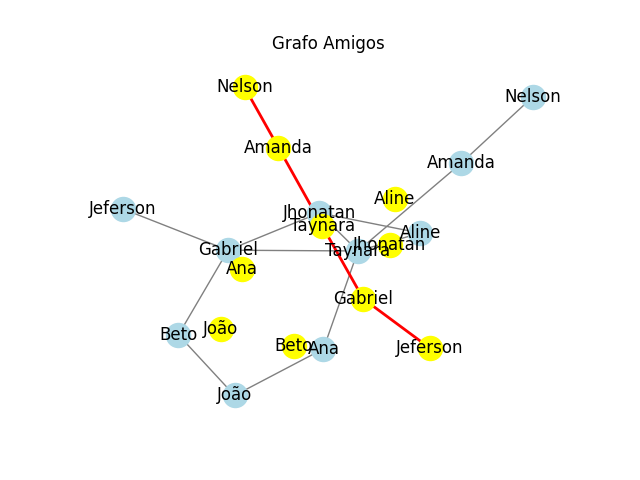
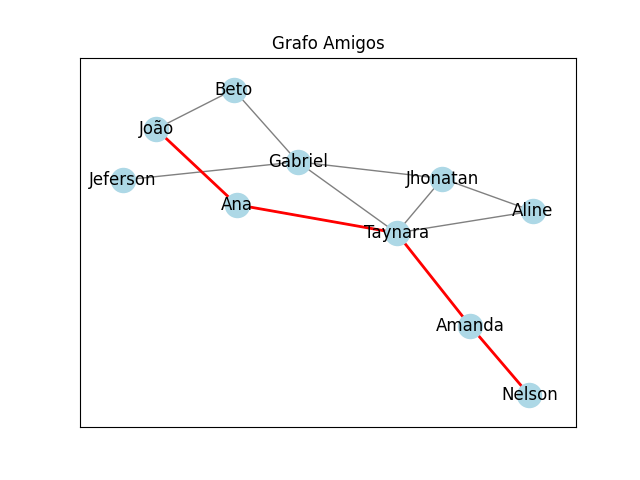
feat: add new image

diff --git a/script.py b/script.py
@@ -81,7 +81,7 @@ adicionar_amizade(grafo_amigos, "Taynara", "Amanda")
 plt.title("Grafo Amigos")
 
 G = nx.Graph(grafo_amigos)
-rota = nx.shortest_path(G, "Nelson", "Jeferson")
+rota = nx.shortest_path(G, "João", "Nelson")
 
 aresta_rota = []
 
@@ -89,20 +89,17 @@ for i in range(len(rota) - 1):
     aresta = (rota[i], rota[i + 1])
     aresta_rota.append(aresta)
 
-# --- Bloco de Desenho Corrigido ---
-
 # Calcula a posição dos nós uma única vez para que tudo fique alinhado
 pos = nx.spring_layout(G)
 
-# Camada 1: Desenha os nós e as arestas de fundo
+# Camada 1: Vertices e as arestas de fundo
 nx.draw_networkx_nodes(G, pos, node_color='lightblue')
 nx.draw_networkx_edges(G, pos, edge_color='gray')
 
-# Camada 2: Desenha os nomes (rótulos)
+# Camada 2: Nomes
 nx.draw_networkx_labels(G, pos)
 
-# Camada 3: Desenha APENAS as arestas do caminho por cima, em vermelho
+# Camada 3: Arestas do caminho por cima
 nx.draw_networkx_edges(G, pos, edgelist=aresta_rota, edge_color='red', width=2)
 
-# Mostra o resultado final de todas as camadas juntas
 plt.show()
